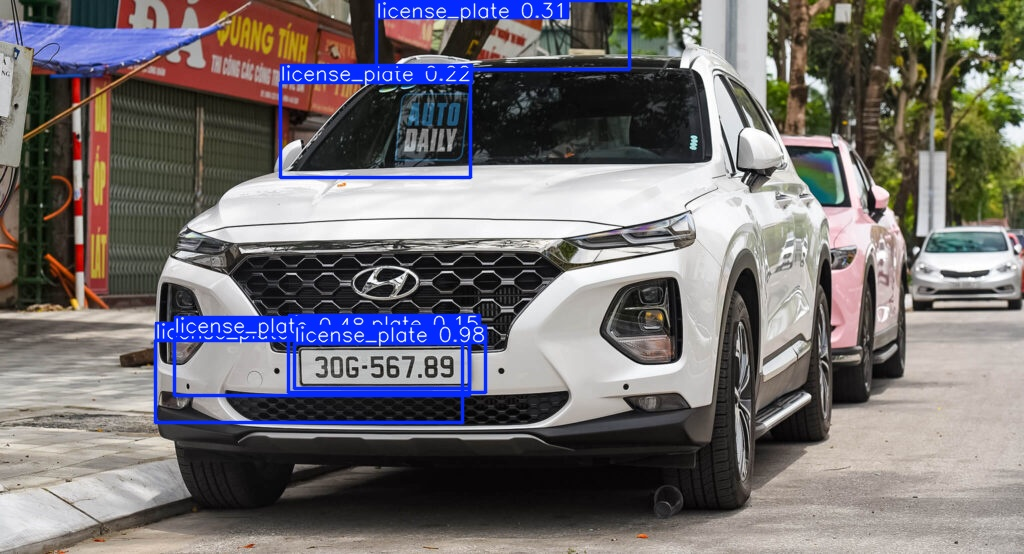
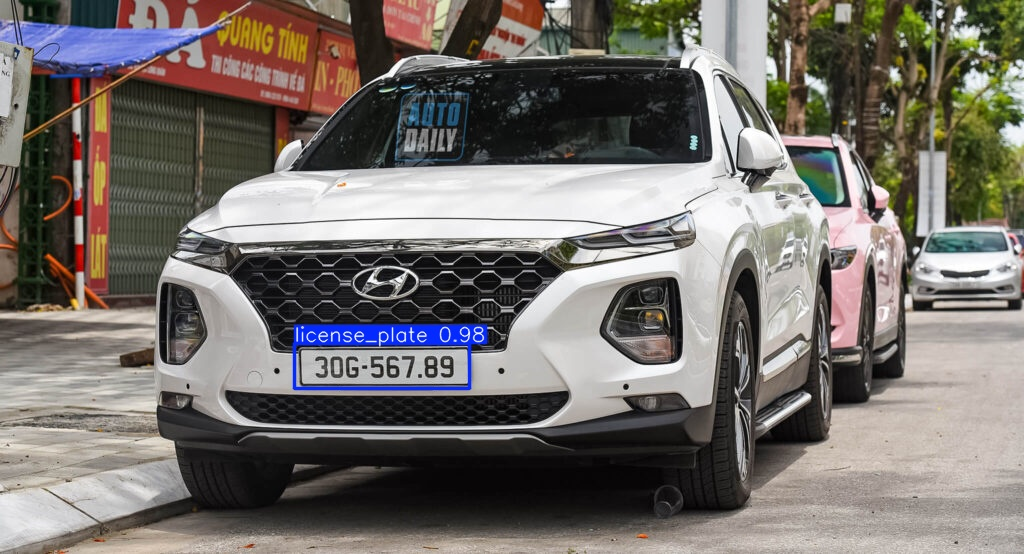
cap nhat lan 1

Changed region(s): [[0.125, 0.5523, 0.5, 0.7671], [0.25, 0.0, 0.625, 0.3375]]

diff --git a/test4.py b/test4.py
@@ -32,29 +32,54 @@ def crop_and_save(imagepath, boxes):
     for i, (x_min, y_min, x_max, y_max) in enumerate(boxes):
         crop_img = image[y_min:y_max, x_min:x_max]
         crop_path = f"results_crop/cropped_{i}.jpg"
+        # crop_path = f"results_crop/cropped_0.jpg"
         cv2.imwrite(crop_path, crop_img)
         print(f"Cropped image saved at: {crop_path}")
         cropped_images.append(crop_img)  # Lưu cropped images để xử lý sau này
 
     return cropped_images
 
+# def process_license_plate(cropped_images):
+#     for lp_img in cropped_images:
+#         # Chuyển đổi ảnh biển số về gray
+#         gray = cv2.cvtColor(lp_img, cv2.COLOR_BGR2GRAY)
+#
+#         # Áp dụng threshold để phân tách số và nền
+#         binary = cv2.threshold(gray, 127, 255, cv2.THRESH_BINARY | cv2.THRESH_OTSU)[1]
+#
+#         # Nhận diện biển số
+#         text = pytesseract.image_to_string(binary, lang="eng", config="--psm 7")
+#
+#         # Fine-tune biển số
+#         fine_tuned_text = fine_tune(text)
+#         print(f"Detected License Plate: {fine_tuned_text}")
+#
+#         # Hiển thị ảnh biển số và kết quả
+#         cv2.imshow("Cropped License Plate", lp_img)
+#         cv2.imshow("Binary License Plate", binary)
+#         cv2.waitKey(0)  # Giữ cửa sổ mở cho đến khi nhấn phím
+#         cv2.destroyAllWindows()  # Đóng cửa sổ sau khi nhấn phím
+
 def process_license_plate(cropped_images):
+    detected_license_plates = []  # List to store detected plates
     for lp_img in cropped_images:
-        # Chuyển đổi ảnh biển số về gray
+        # Convert license plate image to gray
         gray = cv2.cvtColor(lp_img, cv2.COLOR_BGR2GRAY)
 
-        # Áp dụng threshold để phân tách số và nền
+        # Apply threshold to separate text and background
         binary = cv2.threshold(gray, 127, 255, cv2.THRESH_BINARY | cv2.THRESH_OTSU)[1]
 
-        # Nhận diện biển số
+        # Detect text from the binary image
         text = pytesseract.image_to_string(binary, lang="eng", config="--psm 7")
 
-        # Fine-tune biển số
+        # Fine-tune the detected text
         fine_tuned_text = fine_tune(text)
-        print(f"Detected License Plate: {fine_tuned_text}")
+        detected_license_plates.append(fine_tuned_text)  # Add to the list
 
-        # Hiển thị ảnh biển số và kết quả
-        cv2.imshow("Cropped License Plate", lp_img)
-        cv2.imshow("Binary License Plate", binary)
-        cv2.waitKey(0)  # Giữ cửa sổ mở cho đến khi nhấn phím
-        cv2.destroyAllWindows()  # Đóng cửa sổ sau khi nhấn phím
+        # Optionally show images (can be commented out in production)
+        # cv2.imshow("Cropped License Plate", lp_img)
+        # cv2.imshow("Binary License Plate", binary)
+        cv2.waitKey(0)
+        cv2.destroyAllWindows()
+
+    return detected_license_plates  # Return the list of detected plates

diff --git a/giao dien.py b/giao dien.py
@@ -42,7 +42,7 @@ class ImageUploader(QWidget):
 
     def uploadImage(self):
         options = QFileDialog.Options()
-        self.imagePath, _ = QFileDialog.getOpenFileName(self, "Select an Image", "", "Images (*.png *.jpg *.jpeg *.bmp *.gif)", options=options)
+        self.imagePath, _ = QFileDialog.getOpenFileName(self, "Chọn một hình ảnh", "", "Hình ảnh (*.png *.jpg *.jpeg *.bmp *.gif)", options=options)
         if self.imagePath:
             self.label.setText(f'Selected: {self.imagePath}')
             self.displayImage()
@@ -53,17 +53,20 @@ class ImageUploader(QWidget):
 
     def confirmImage(self):
         if self.imagePath:
-            license_numbers = self.processImage(self.imagePath)
+            license_numbers = self.processImage(self.imagePath)  # Gọi hàm xử lý hình ảnh
             if license_numbers:
-                self.resultText.append("Detected License Plates:")
-                for number in license_numbers:
-                    self.resultText.append(f"Detected License Plate: {number}")
-            else:
-                self.resultText.append("No license plates detected.")
-        else:
-            self.resultText.setPlainText('No image selected!')
 
-    def processImage(self, imagepath, conf=0.1):
+                for number in license_numbers:
+                    if number:  # Kiểm tra xem biển số có dữ liệu không (không phải chuỗi rỗng)
+                        self.resultText.append(f"Đã phát hiện biển số xe: {number}")
+                if not any(license_numbers):  # Nếu không có biển số hợp lệ nào
+                    self.resultText.append("Không phát hiện thấy biển số xe hợp lệ.")
+            else:
+                self.resultText.append("Không phát hiện biển số xe.")
+        else:
+            self.resultText.setPlainText('Không có hình ảnh nào được chọn!')
+
+    def processImage(self, imagepath, conf=0.8):
         try:
             clear_crop_directory()  # Xóa tất cả các ảnh trong thư mục results_crop
             img = cv2.imread(imagepath)
@@ -80,7 +83,7 @@ class ImageUploader(QWidget):
 
                 if detected_boxes:
                     cropped_images = crop_and_save(imagepath, detected_boxes)
-                    license_numbers = process_license_plate(cropped_images)  # Đảm bảo hàm này trả về danh sách biển số
+                    license_numbers = process_license_plate(cropped_images)  # Gọi hàm này và lưu kết quả
                     return license_numbers if license_numbers else []
                 else:
                     return []

diff --git a/main.py b/main.py
@@ -1,12 +1,14 @@
 import os
 import cv2
 from ultralytics import YOLO
+
+from test3 import results
 from test4 import clear_crop_directory, crop_and_save, process_license_plate
 
 # Khởi tạo mô hình YOLOv11
 model = YOLO("C:/XuLyAnh/YoloV8/runs/detect/train/weights/best.pt")
 
-def load_model(imagepath="e1.jpg", conf=0.1):
+def load_model(imagepath, conf=0.1):
     img = cv2.imread(imagepath)
     results = model(imagepath, conf=conf, save=True)
 
@@ -39,3 +41,17 @@ def main():
 
 if __name__ == '__main__':
     main()
+
+
+# from ultralytics import YOLO
+# model = YOLO("yolov8n.pt")
+# if __name__ == '__main__':
+#     train_results = model.train(
+#         data="coco128.yaml",
+#         epochs=1,
+#         device="0",
+#         batch=2,
+#         workers=2
+#     )
+#
+#     results = model("1.png",conf=0.25,save=True)
